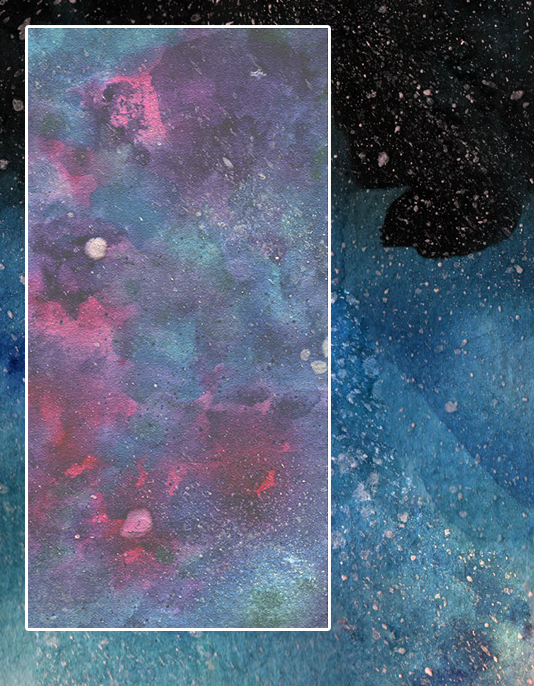
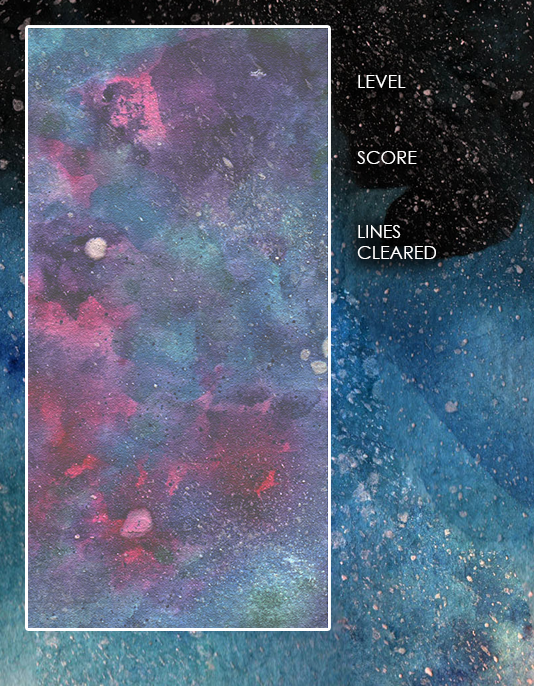
Updated background

Changed region(s): [[0.6592, 0.3061, 0.839, 0.398], [0.6592, 0.0918, 0.7491, 0.1531], [0.6592, 0.2143, 0.779, 0.2449]]

diff --git a/src/const.hpp b/src/const.hpp
@@ -8,14 +8,14 @@ const struct Const {
     const std::string resources_dir = "./resources/";
 
     const struct Positions {
-        int level_x = 400;
-        int level_y = 130;
+        int level_x = 357;
+        int level_y = 28;
 
-        int lines_x = 400;
-        int lines_y = 70;
+        int lines_x = 357;
+        int lines_y = 179;
 
-        int score_x = 347;
-        int score_y = 200;
+        int score_x = 357;
+        int score_y = 103;
     } positions;
 } const_list;
 
